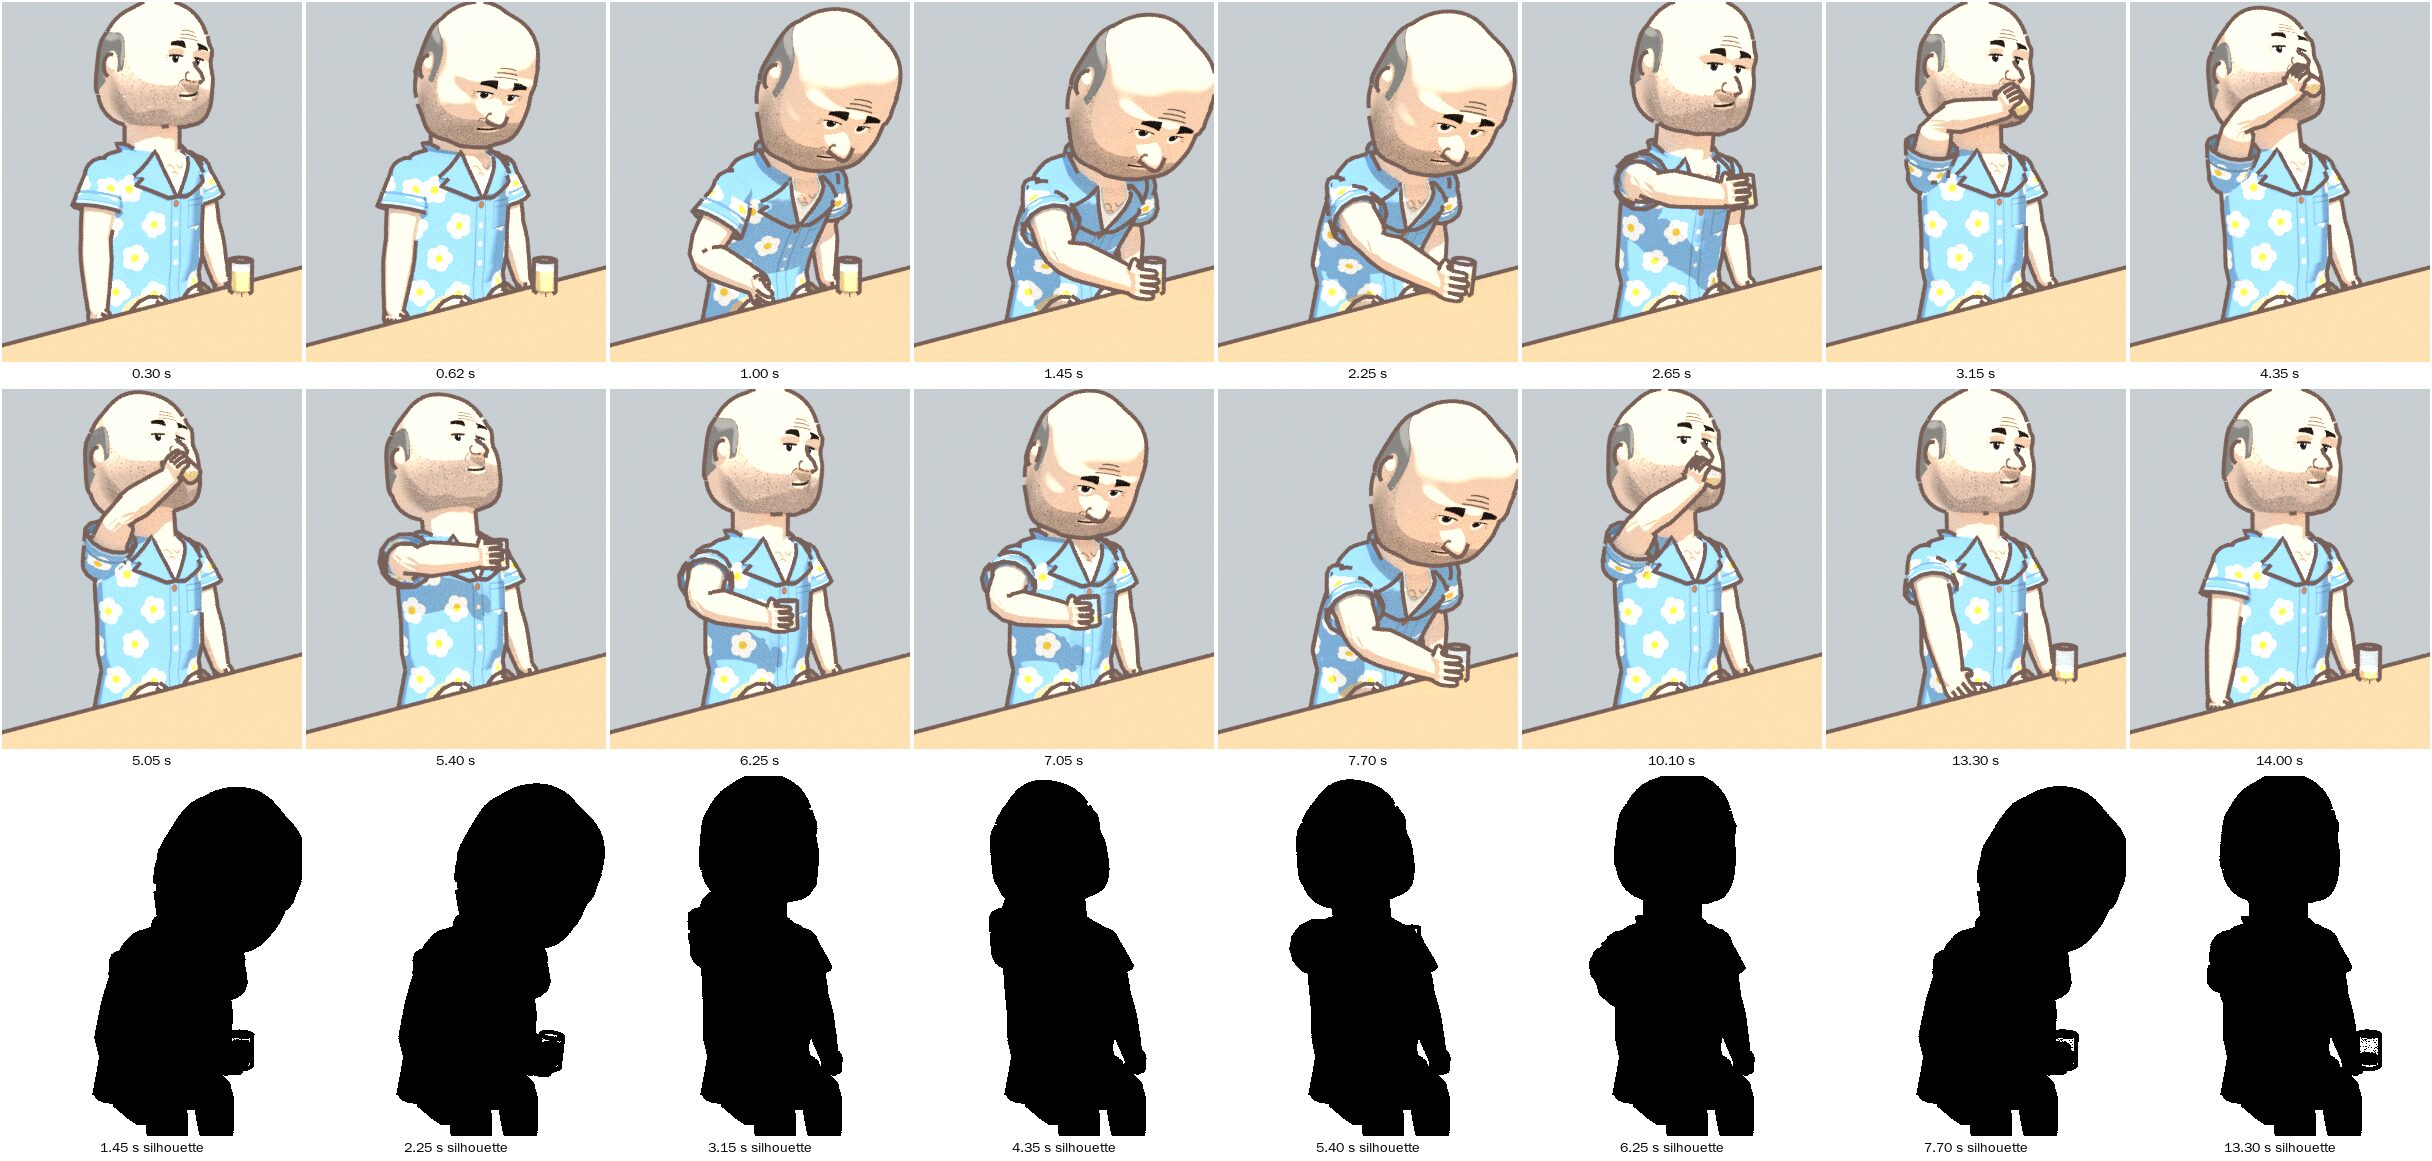
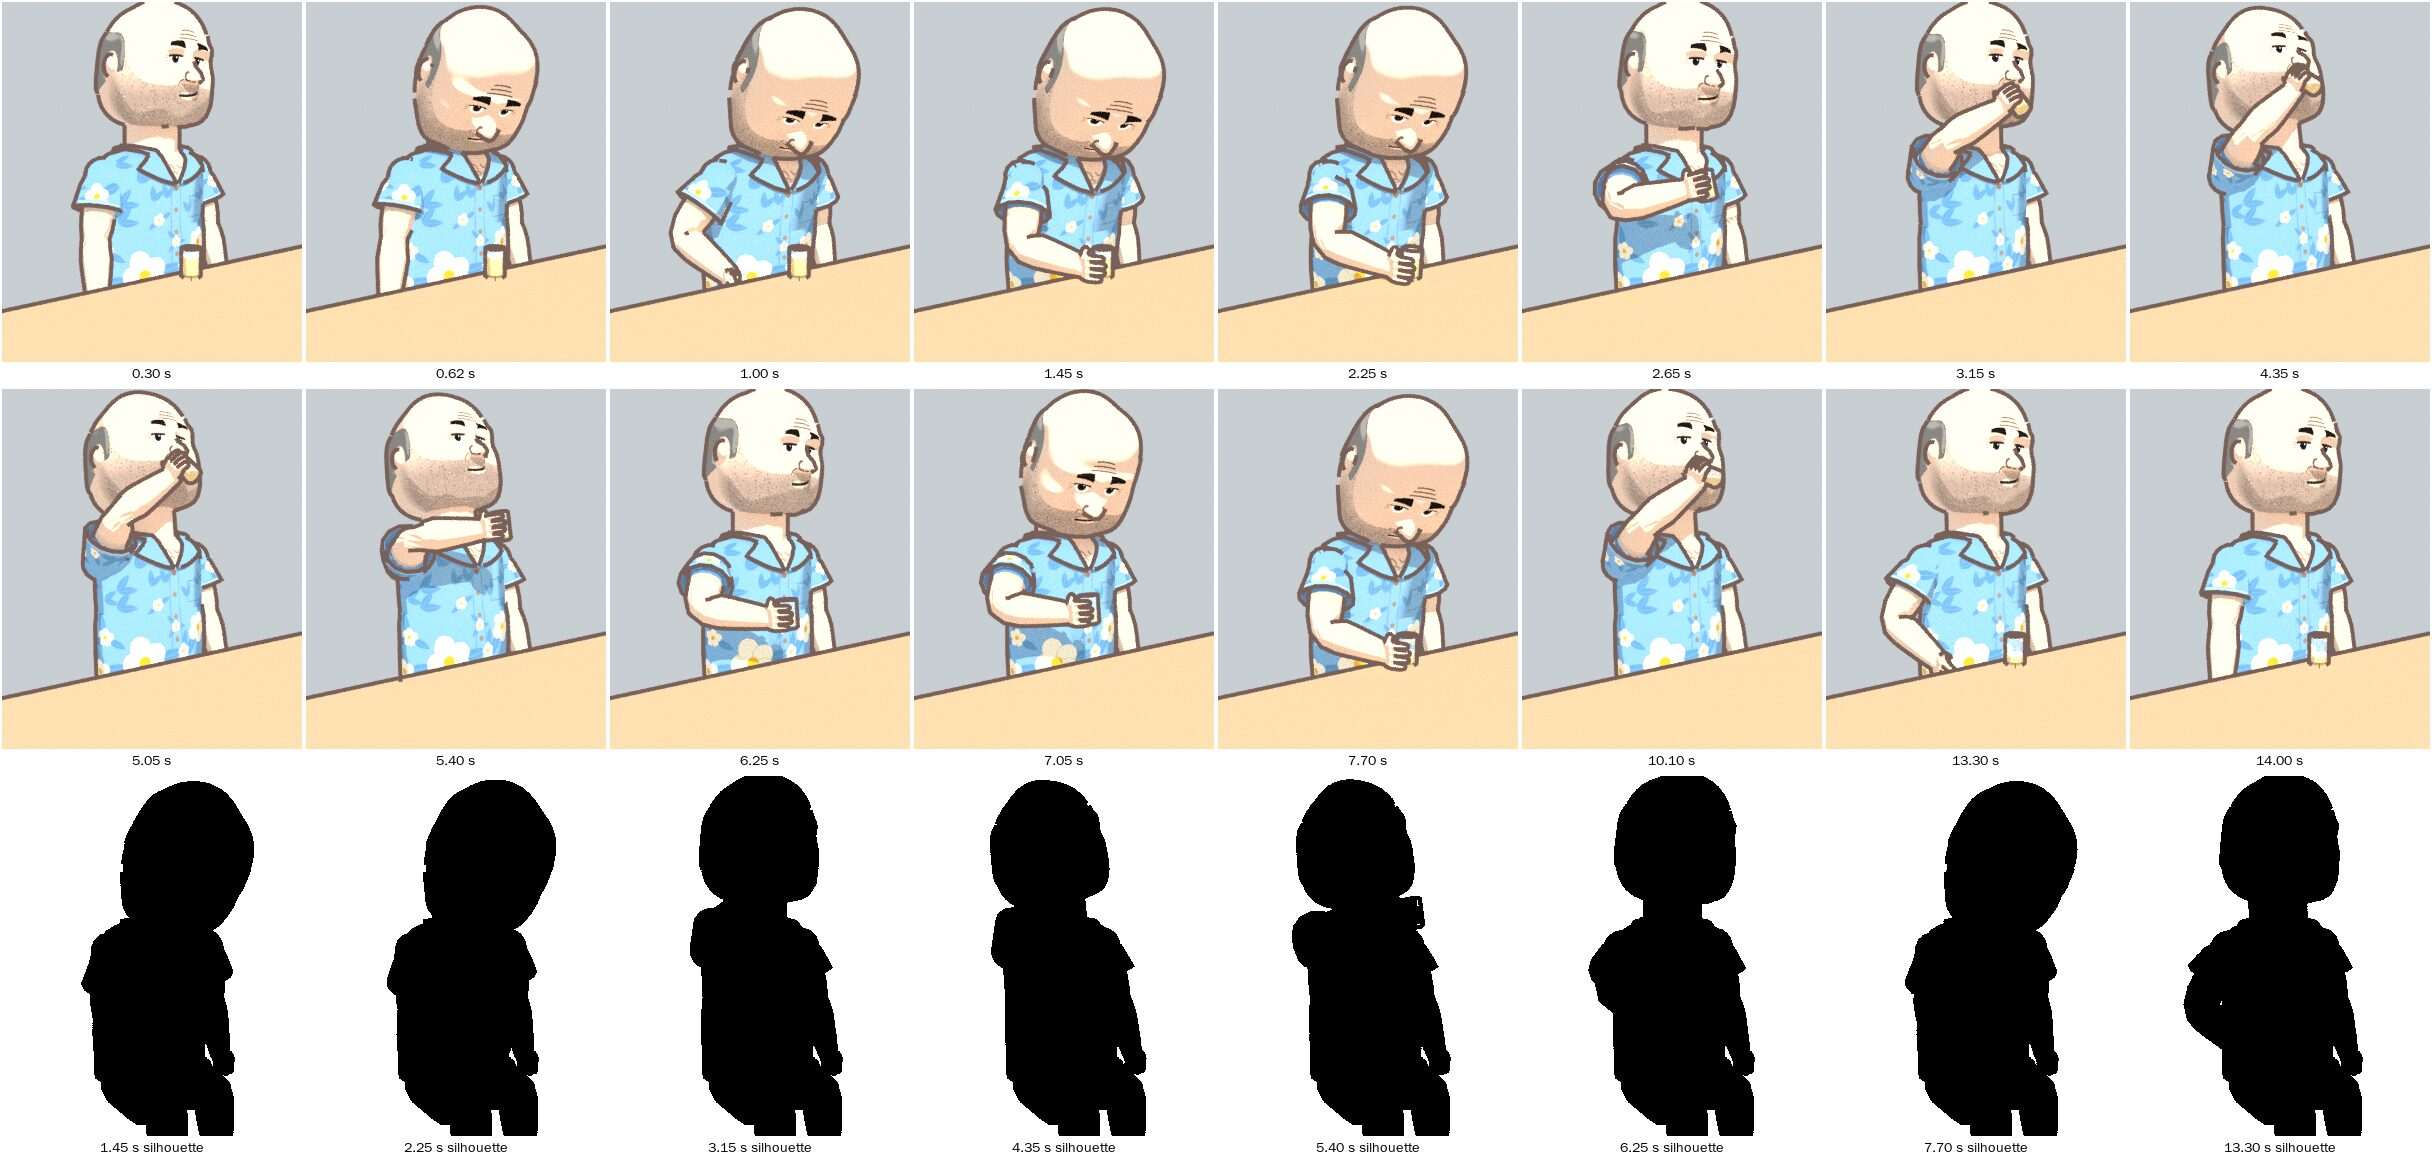
The beer drink's sheets at the game's seat: Blender (the shirt, the near counter), the game's pint and mug on Johansson, Thao, Mr Fujita and Sverker, a resident's at the venue (Sverker, Tetsuo); the handover
tools/hand-shots.mjs --beer pint|mug[:resident]: seated as game.js seats a body, the glass where Thao sets it, a strip over the
let-go.

Claude-Session: https://claude.ai/code/session_0137qroVAMP4XvjuzgJ9QXN9

diff --git a/briefs/HANDOFF-SAKURA-RESTROOM-2026-11-26.md b/briefs/HANDOFF-SAKURA-RESTROOM-2026-11-26.md
@@ -1758,3 +1758,69 @@ TAKE, then FIRST or SIP, then LET. Times (s) from each part's start, at the keys
 - The coordinator's addition, the can's leftover audit failures (DrinkCan, DrinkCanOpened: ease on Vy and Sverker, overlap on
   all three since stanceStep): not started.
 - The owner has not seen any of it.
+
+# 27 November, night: the beer drink finished for every body at the counter (branch `drink/beer`)
+
+The owner: "Remake it follow Disney principles how should it look when anyone drinks beer"; "anyone" is every resident. From
+c58f5bd, merged with `claude/dreamy-ritchie-cxufpl` at 626f29a (the real Hawaii shirt, stage 3, the brand sweep, the TV). Not
+pushed. Commits: e750767 (the pop), 21b265e (every body at the counter), 609feea (residents), 4741f33 (the merge), and the sheets.
+
+## Found, and fixed at the cause
+- **The pop letting go** (0.4 rad over five frames 0.5 s into LET): two causes in the bake. The hand's way from the glass to
+  the thigh went out of the arm's reach as the body sat back, so the IK took the arm straight and bent it again in five frames;
+  and where the arm was straight `settle_roll` dropped the upper arm's roll to none and gave it back, the elbow taking it. Now
+  the way back is keyed every 0.1 s within 0.9 of the arm from the shoulder (`within_reach`), the take's counter-move goes back
+  along the thigh, and the upper arm's roll is chosen over the whole move, carried across straight frames (`settled_rolls`).
+- **Why the other bodies came short** (measured): (1) `motion.js normalizeMotion` dropped `fps`, so every widened contact in
+  `drink-beer.js` (the foot on the counter, the wrist at the glass, the lip's approach, the wipe) and the can's ring and pocket
+  for another body (`drink-can.js sizeContacts`) were empty: nothing brought another body's hand to the glass. (2) The kit
+  seated the body 10 cm back on the stool where the game slides it 10 cm forward (the animator's `root.position.z = -slide` on
+  a root the kit had turned to face +z), so Blender's counter was 20 cm further than the game's (the glass 0.58 m ahead of
+  the root, not 0.39) and the lean 0.58 rad. The test and hand-shots placed the glass the kit's way.
+- **The glass Thao sets down** was left as her hand had it, 46 degrees off; a mug would have turned round in the drinker's hand
+  in a frame. She now turns it in her fingers as she sets it down (`izakaya-bar.js turnHeld`, eased over the 1.1 s), its
+  drinking side to the customer and a mug's handle to their right; residents' requests say which way they face.
+
+## Done
+- Blender (`tools/drink-beer-kit.mjs`, `tools/blender/drink-beer{,-keys}.py`): the body forward on the stool; C re-leant for the
+  near counter (0.155 rad, its breakdowns about it); the IK's own pose kept at the lip and on the glass (evening the trunk
+  under them carried the rim 5-9 mm off); poles that keep the wrist clear of soft_wrist's ends, evened five times; the joins
+  held on one pose on both frames about each marker; the glass to the lip nearly at its drinking tilt (`('lip', -8, .025)`),
+  down from it in 0.35 s. Blender: rim to lip at most 5.4/5.6/5.2 mm (mug/pint/glass), the foot within 3 mm of its place and
+  at worst 1.8 mm under the top in the rock.
+- Game (`drink-beer.js`): a hand resting on the thigh rests on this body's own and leaves it over 18 cm; a soft reach on the
+  wrist goals (never past 97.5% of the arm); the wrist to the glass only near it; the hand's socket brought to the glass's
+  place (the standing glass jumped 5-7 mm into it); the rim onto the lip over its last 0.3 s; the hand's twist into the forearm
+  over a contact's first quarter (`bring`'s new `twist` argument, the can's unchanged); beat speeds eased over 0.15 s.
+  `beerPlan`, `beerPlanAt`, `beerDrunkAt`, `beerSipLength`.
+- **Who drinks the animated way now:** Johansson at Minato's counter (game.js, the mug, the pint), and every resident with a
+  beer at a counter stool (venue-service.js: Sverker and Tetsuo by taste, Thuan by game.js; the mug), each in their own time
+  (`BEER_STYLES`). The venue's drink step is the drink's own length (7-12 s, not 3: `mealState`'s `drinkLength`, the beer going
+  down at the lip as the motion's does); animate.js plays it once the body is set on its seat (before, the seat's lift carried
+  the glass 31 mm). Beer only for a grown-up by recorded age (`DRINKING_AGE`, as the machines): a child never gets beer
+  (Vy is 11; `izakaya-food`'s test guest is now 40).
+- Measured, first draught at the counter, 8 bodies x 3 glasses (Johansson, Thao, Mr Fujita, Sverker, Thuan, Tetsuo, Masaru,
+  Christina): the rim on the lip 0.0 mm; the foot within 15.4 mm of its place (the rock's 15 mm slide), never under the top;
+  no joint over 0.35 rad a frame, no step of speed over 0.06 rad (worst 0.057); the glass at most 25.4 mm a frame; wrists
+  within 0.05 rad of their limits. Residents through the animator (Sverker, Tetsuo, Thuan; a fresh glass and a later sip):
+  the same, set down within 2 mm of where it stood.
+- The can (`drink-can.js`): its ring and pocket weights sampled between frames, the hook eased off past the tear (the hand
+  jumped 19 mm on Vy once the weights came on). The principles audit's baseline is unchanged.
+
+## Sheets (looked at: no pop, no slide, nothing through the glass or the counter)
+- Blender: `art/characters/body-kit/review/drink-beer-{mug,pint,glass}-{front,three-quarter,side}.jpg` (the shirt, the near
+  counter).
+- Game (`node tools/hand-shots.mjs --beer pint|mug[:resident] --name X`, now at the game's seat): `drink-beer-game-{pint,mug}-
+  {johansson,thao,mr-fujita,sverker}.jpg` and a resident at the venue `drink-beer-game-mug-resident-{sverker,tetsuo}.jpg`:
+  key moments, strips of 8 over the lift, the gulp, the set-down and the let-go, the third-person camera at the "kaa!".
+
+## Remains
+- **The handle hand** (item 4): not made; the mug is held in the fist round its bar. A HANDLE shape in
+  `tools/blender/hand_model.py`, the kit and build.js grip (`HANDS`) is next.
+- **The kanpai** (optional): not made.
+- **The can's leftover audit failures** (ease on Vy and Sverker, overlap on all three): not started; unchanged in the baseline.
+- A later sip (not in the test): wrists up to 0.058 rad past their limits (Christina, Tetsuo), Thao's small glass 0.062 rad.
+- A booth's table and a standing drinker keep the drink from the hand (the counter's motion at a booth: steps up to 0.13 rad,
+  the glass 32 mm a frame; the held sip ends at the chest and blends out at 55-78 mm a frame). Johansson's small glass of the
+  bottle is not in `TABLE_DRINK_KINDS` (its prop is the bottle-and-glass set) and keeps the old sip.
+- The owner has not seen any of it.
